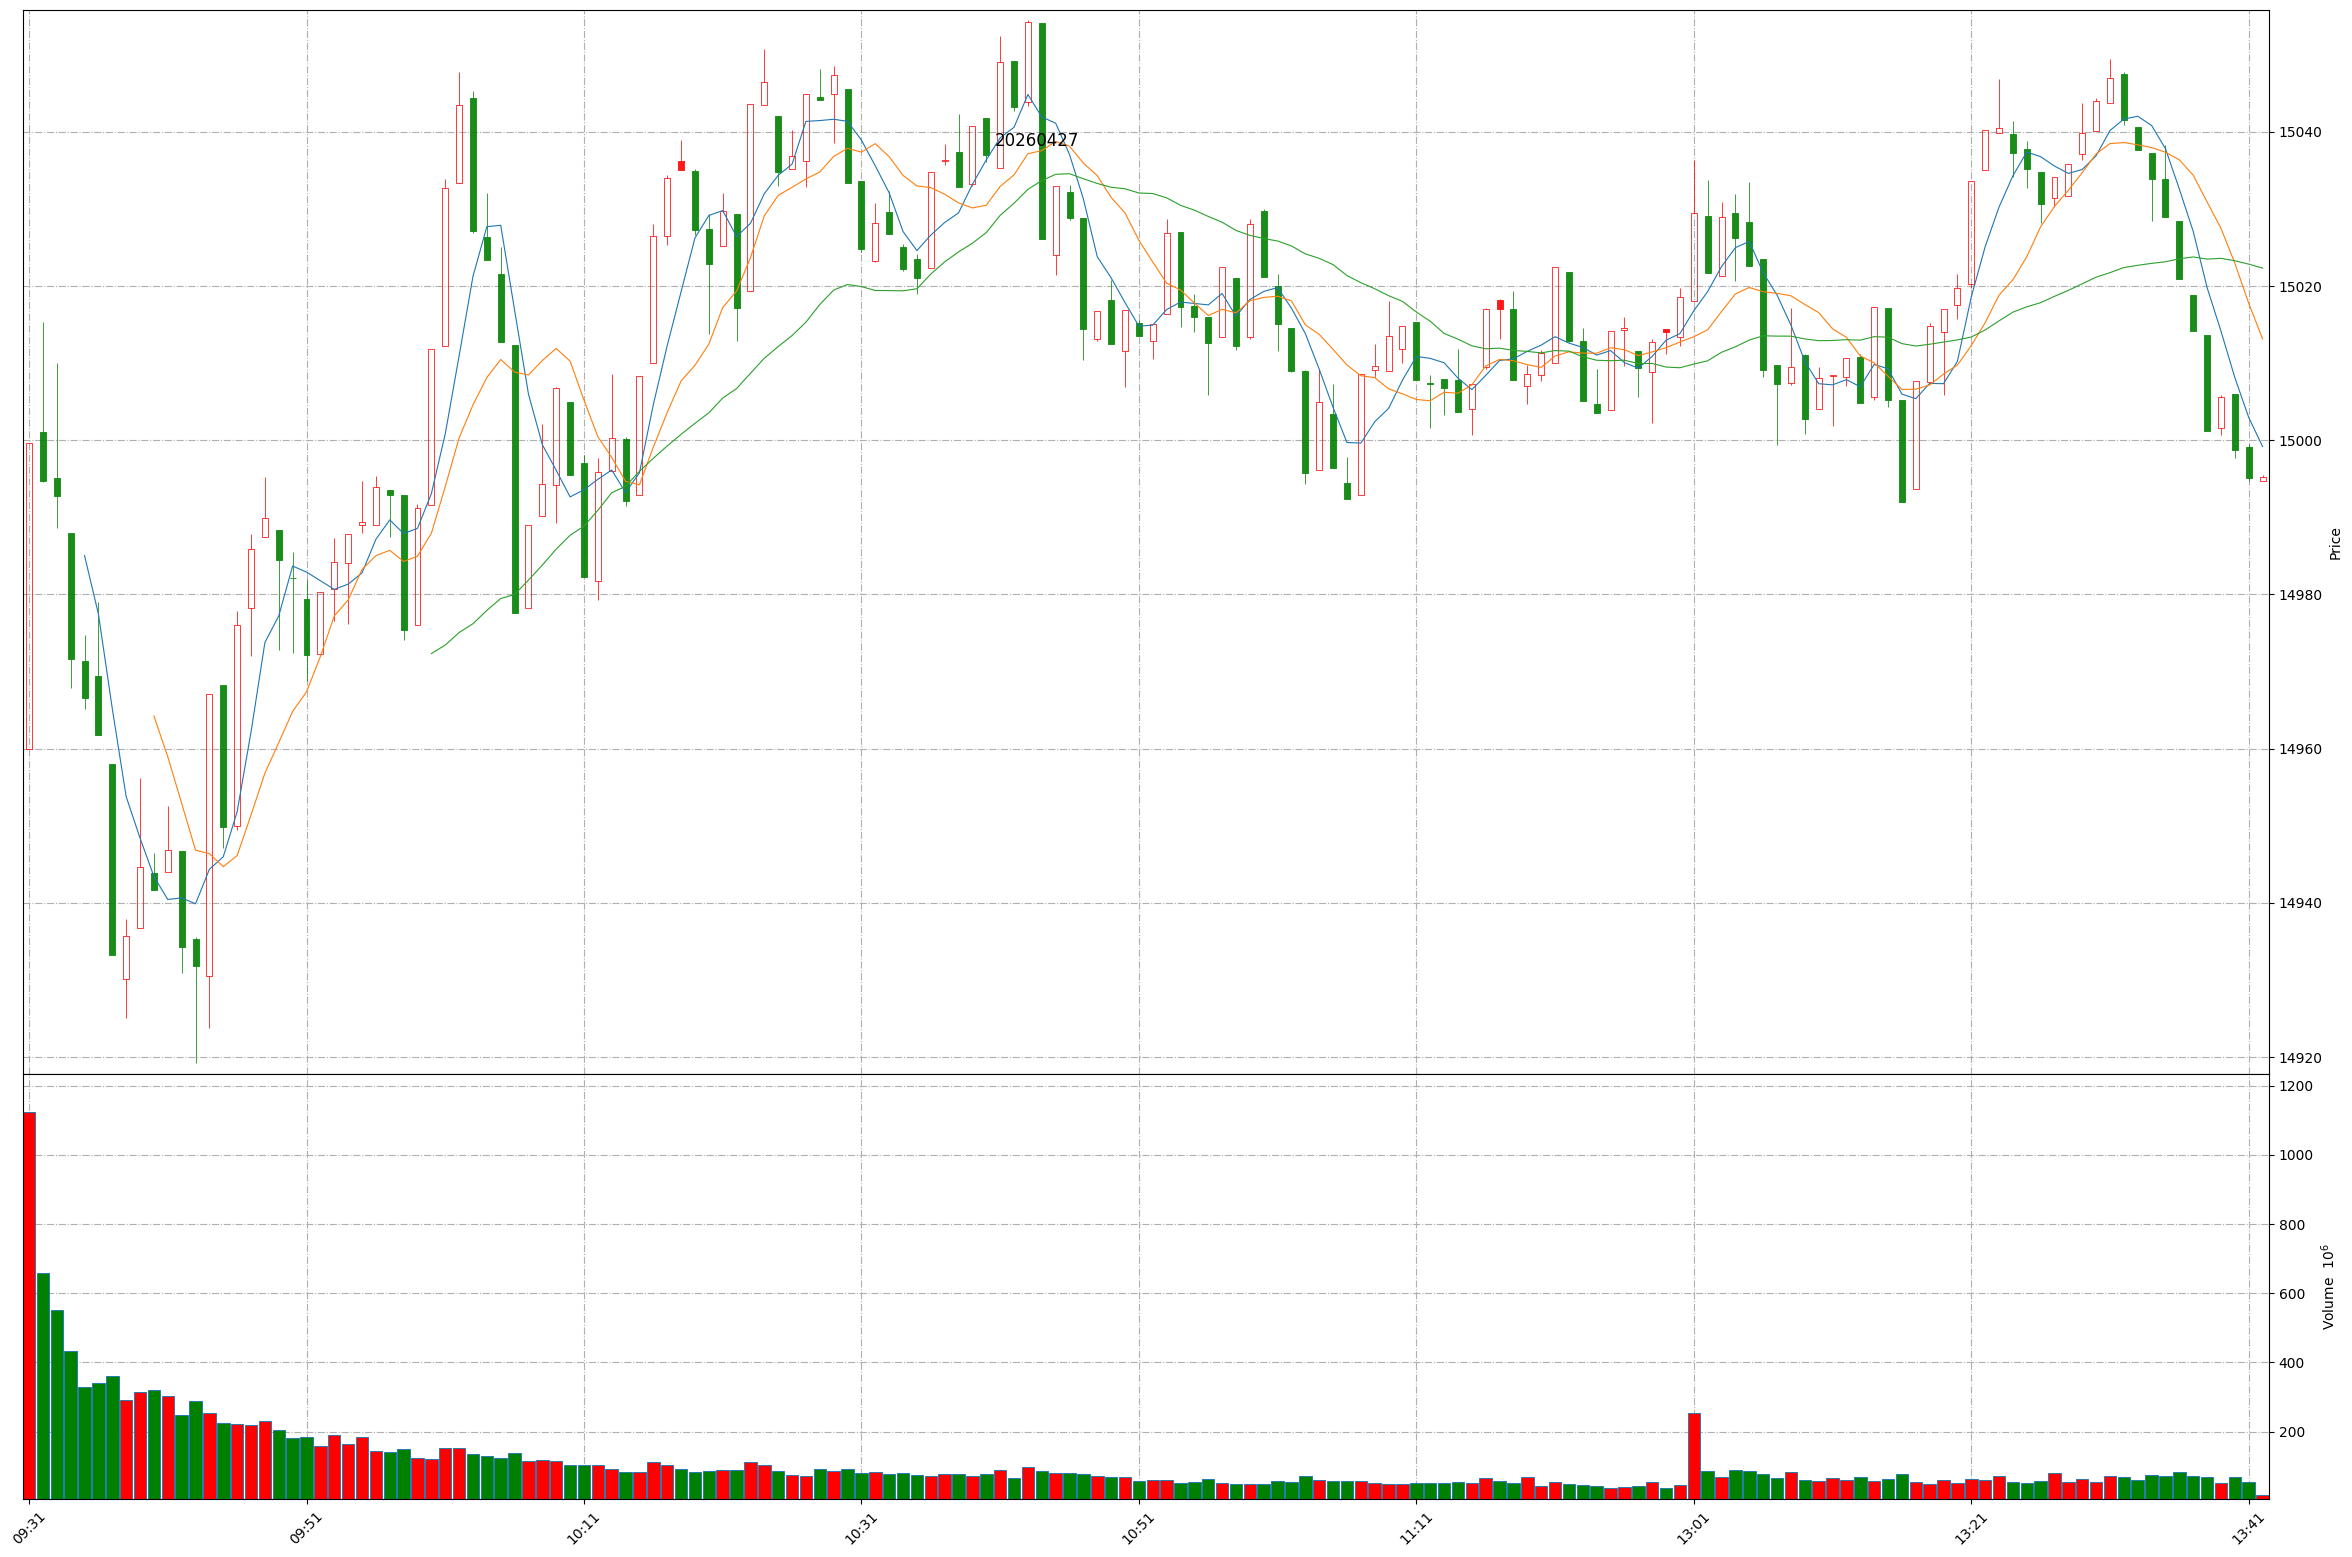
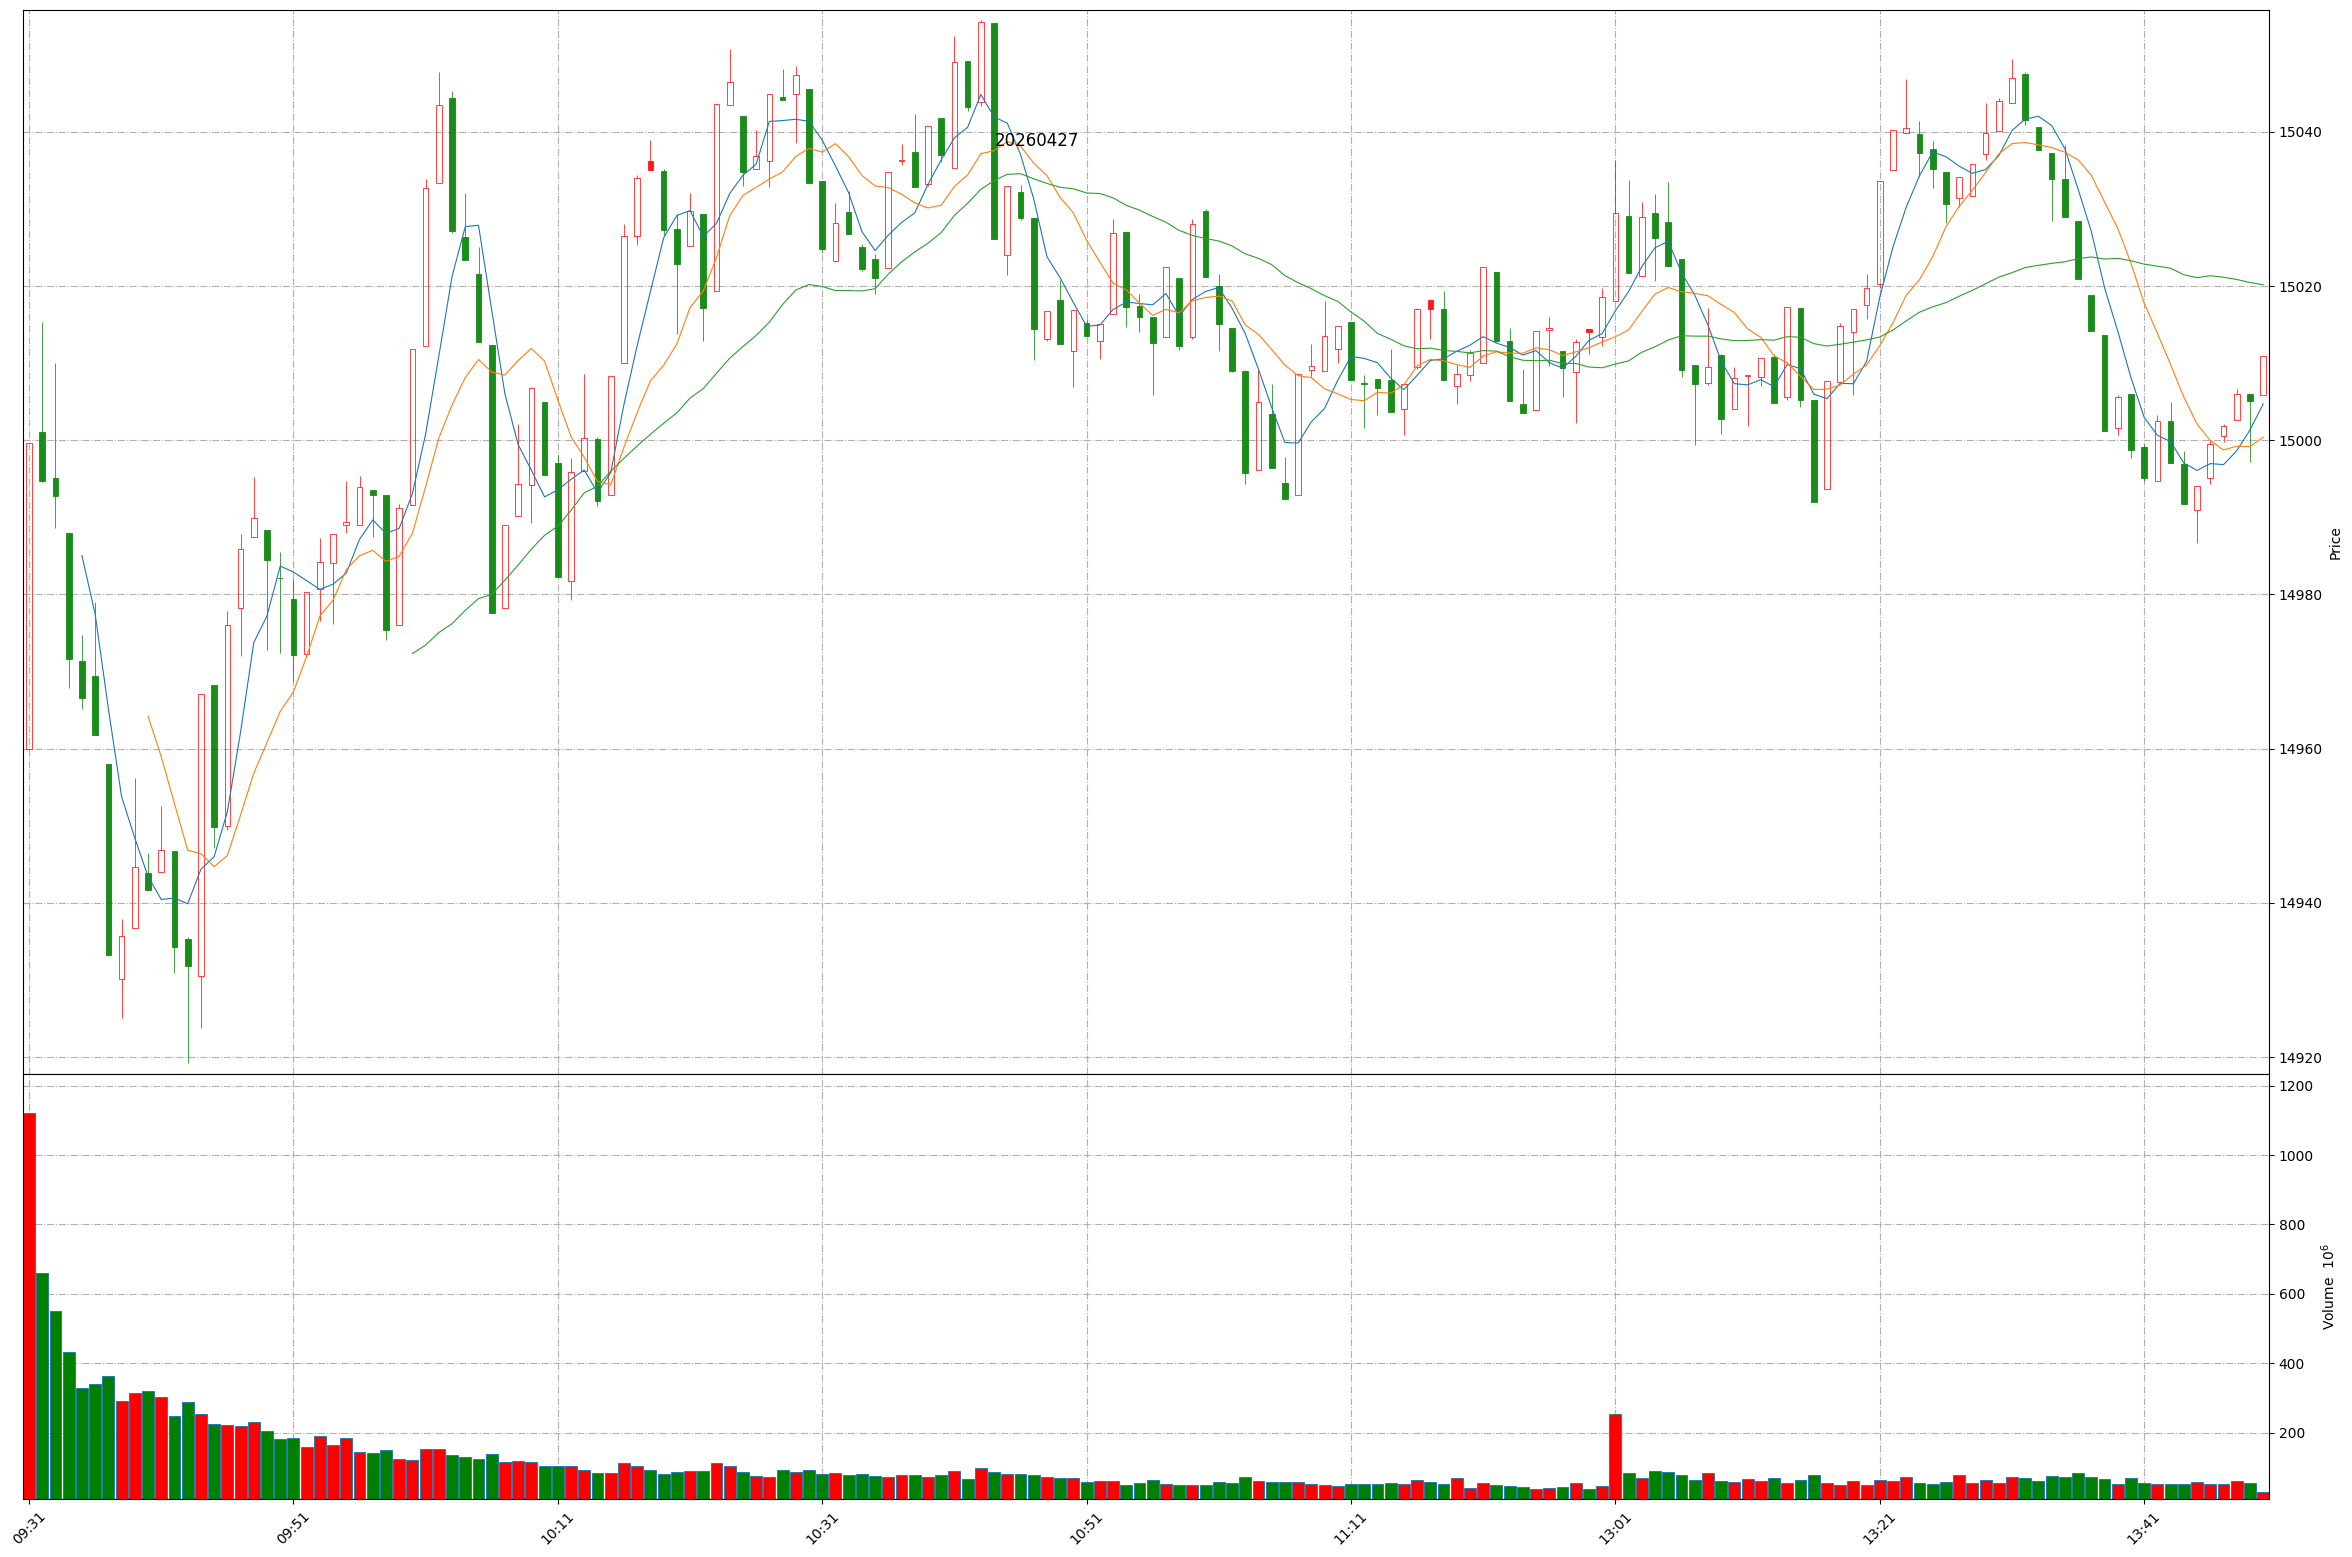
Github action update at 2026-04-27 13:49:39.

diff --git a/README.md b/README.md
@@ -1,11 +1,11 @@
 
 # Daily-A-share-market-quotes 每日 A 股指数（5min 更新）- 20260427
 
-### 上证指数 20260427 13:41
+### 上证指数 20260427 13:49
 ![](./fig/2026/4/20260427-sh000001.png)
 
-### 深证成指 20260427 13:41
+### 深证成指 20260427 13:49
 ![](./fig/2026/4/20260427-sz399001.png)
 
-### 北证50 20260427 13:41
+### 北证50 20260427 13:49
 ![](./fig/2026/4/20260427-bj899050.png)
